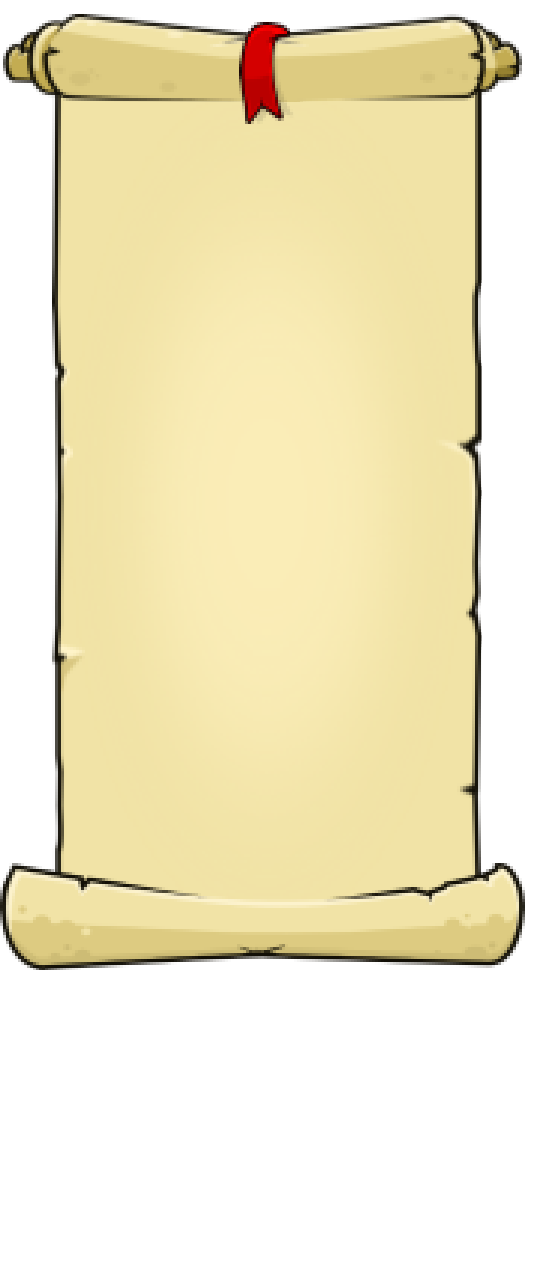
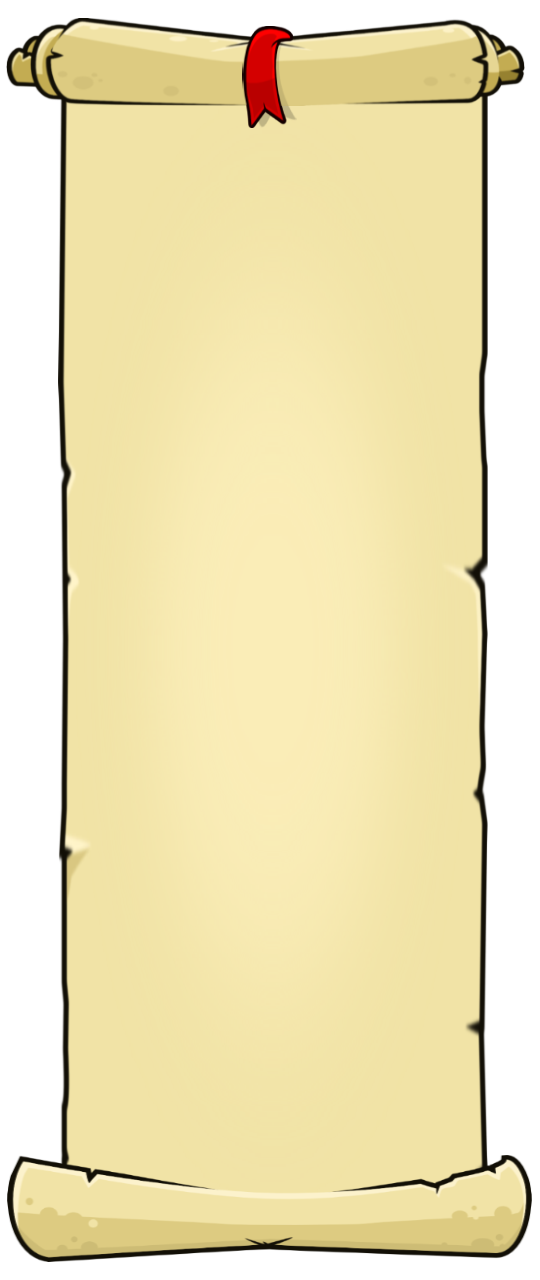
scroll updated, completed button updated

Changed region(s): [[0.0, 0.0, 1.0, 1.0]]

diff --git a/app/assets/stylesheets/pages/_quests.scss b/app/assets/stylesheets/pages/_quests.scss
@@ -4,7 +4,7 @@
   min-height: 80vh;
   display: flex;
   justify-content: center;
-  padding: 20px 0;
+  padding: 24px 0;
   margin-left: 10px;
   padding-bottom: 100px;
 }
@@ -16,7 +16,6 @@
 }
 
 .guild-board {
-  // background-image: url('dashboard_scroll.png');
   background-color: transparent !important;
   border: none;
   padding: 0;
@@ -31,6 +30,7 @@
   font-style: normal;
   font-size: 2.0rem;
   color: #9b6b11;
+  padding-left: 16px;
 }
 
 .quest-body {
@@ -60,6 +60,31 @@
   padding: 5px 10px;
 }
 
+.quest-desc-box.completed {
+  background: #f2e6c9dd url('quest_subtle_paper_texture.png') no-repeat;
+  background-size: auto;
+}
+
+.quest-desc-box form.button_to {
+  display: flex;
+  align-items: center;
+  justify-content: center;
+  width: 100%;
+  height: 100%;
+  margin: 0;
+}
+
+.quest-desc-box form.button_to button {
+  display: flex !important;
+  align-items: center !important;
+  justify-content: center !important;
+  width: 100%;
+  height: 100%;   /* match form height */
+  line-height: normal;
+  padding: 0 12px;
+  border: none;
+}
+
 .text-active {
    color: #6f4e0f
 }
@@ -69,12 +94,12 @@
   border: 0 !important;
   padding: 0 !important;
   box-shadow: none !important;
-  font: inherit;                /* keeps your Press Start font */
+  font: inherit;
   cursor: pointer;
 }
 
 .text-completed {
-  color:#b4914f
+  color:#c8a86d
 }
 
 form.button_to {
@@ -86,10 +111,16 @@ form.button_to button {
   display: flex !important;
   align-items: center !important;
   justify-content: center !important;
-  height: 40px; /* adjust to your desired height */
+  height: 40px;
   line-height: normal;
   padding: 0 12px;
   border: none;
+}
+
+.text-font {
+  font-family: "Press Start 2P", cursive;
+  font-size: 1.0rem;
+  color: #6c4908
 }
 // .guild-board {
 //   max-height: 0;
